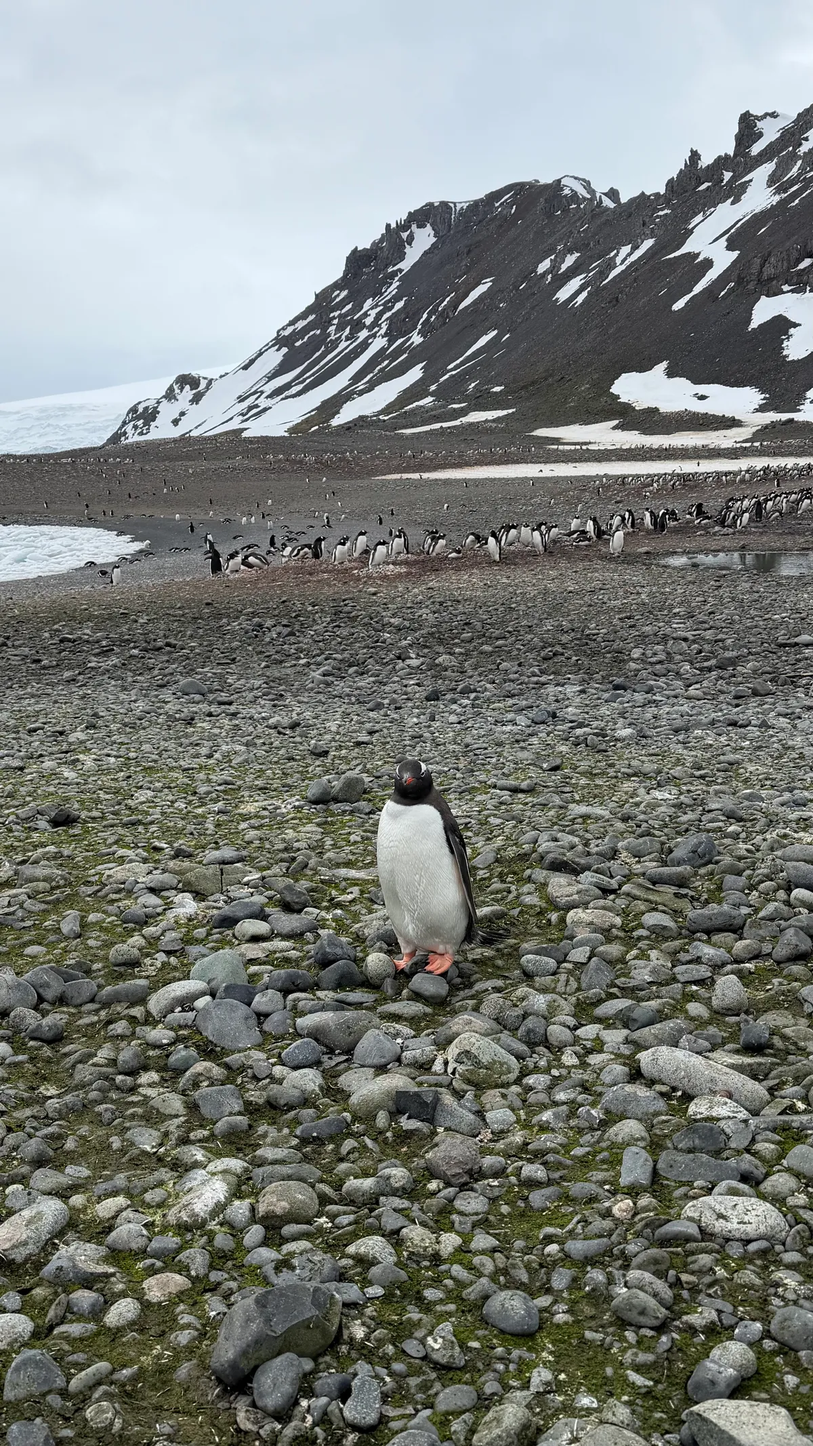
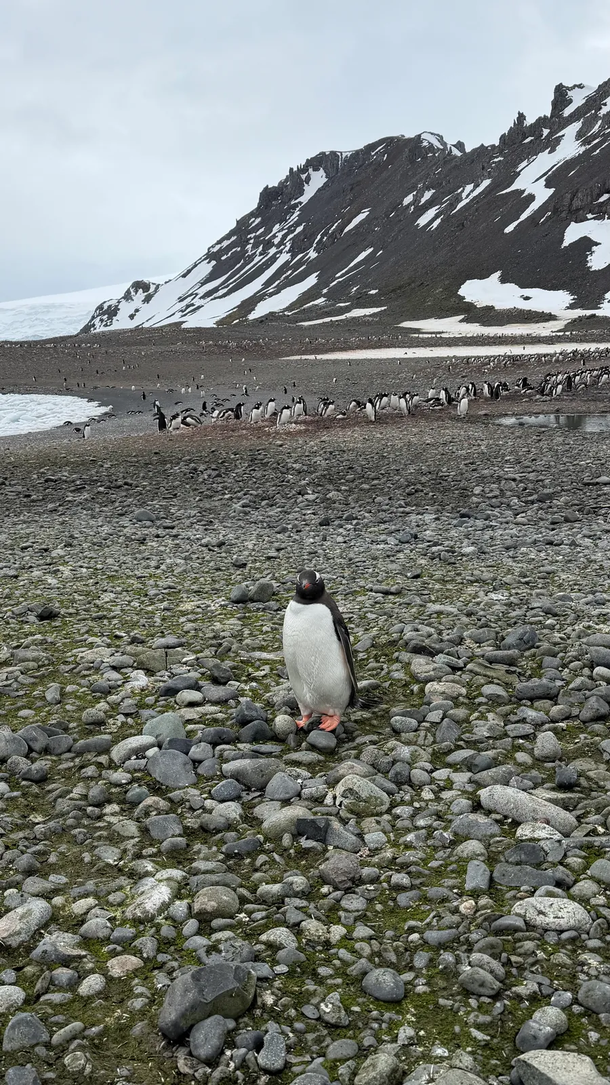
fix:optimize penguin image loading and improve transition

diff --git a/src/components/AboutSection/AboutImage.tsx b/src/components/AboutSection/AboutImage.tsx
@@ -9,7 +9,6 @@ import penguinCursor from "../../assets/linux.svg";
 
 export default function AboutImage() {
   const [showPenguin, setShowPenguin] = useState(false);
-  const [penguinLoaded, setPenguinLoaded] = useState(false);
 
   const imageBaseClasses = "absolute inset-0 h-full w-full object-cover";
 
@@ -37,23 +36,22 @@ export default function AboutImage() {
             }}
           />
 
-          {penguinLoaded && (
-            <motion.img
-              src={penguinImage}
-              alt="Penguin in Antarctica"
-              decoding="async"
-              className={`${imageBaseClasses} object-[50%_47%]`}
-              initial={{ opacity: 0, scale: 1.22 }}
-              animate={{
-                opacity: showPenguin ? 1 : 0,
-                scale: showPenguin ? 1.18 : 1.22,
-              }}
-              transition={{
-                duration: 0.5,
-                ease: "easeInOut",
-              }}
-            />
-          )}
+          <motion.img
+            src={penguinImage}
+            alt="Penguin in Antarctica"
+            decoding="async"
+            loading="lazy"
+            className={`${imageBaseClasses} object-[50%_47%]`}
+            initial={false}
+            animate={{
+              opacity: showPenguin ? 1 : 0,
+              scale: showPenguin ? 1.18 : 1.22,
+            }}
+            transition={{
+              duration: 0.5,
+              ease: "easeInOut",
+            }}
+          />
         </div>
 
         {/* Bottom information */}
@@ -81,7 +79,6 @@ export default function AboutImage() {
           <button
             type="button"
             onClick={() => {
-              setPenguinLoaded(true);
               setShowPenguin((prev) => !prev);
             }}
             aria-label={
